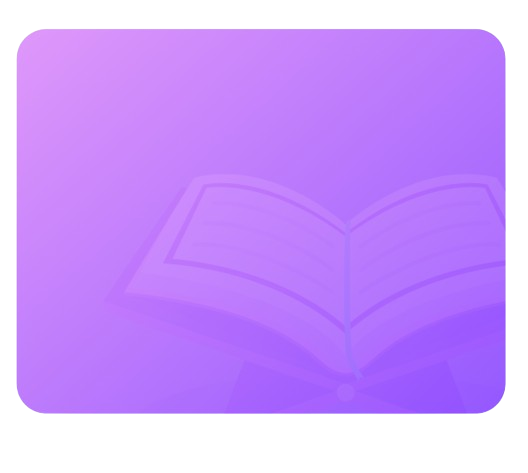
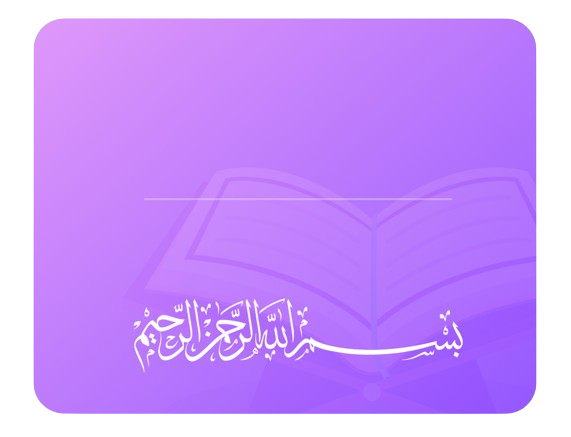
editing details view

diff --git a/lib/feature/Details/presentation/view/widget/surah_details_widget.dart b/lib/feature/Details/presentation/view/widget/surah_details_widget.dart
@@ -18,7 +18,7 @@ class SurahDetailsWidget extends StatelessWidget {
           Image.asset("assets/img/details background.png"),
           Positioned(
             top: 70,
-            left: 110,
+            left: 150,
             child: Column(
               children: [
                 Text(
@@ -50,10 +50,6 @@ class SurahDetailsWidget extends StatelessWidget {
                 const SizedBox(
                   height: 60,
                 ),
-                const Text(
-                  "بسم الله الرحمن الرحيم",
-                  style: Styles.textStyle24,
-                )
               ],
             ),
           )

diff --git a/lib/feature/Home/presentation/view/Widget/surah_list_view.dart b/lib/feature/Home/presentation/view/Widget/surah_list_view.dart
@@ -20,6 +20,7 @@ class SurahListView extends StatelessWidget {
             itemCount: state.quran.length,
             itemBuilder: (context, index) {
               return InkWell(
+                
                 borderRadius: BorderRadius.circular(10),
                 mouseCursor: MaterialStateMouseCursor.clickable,
                 onTap: () {
